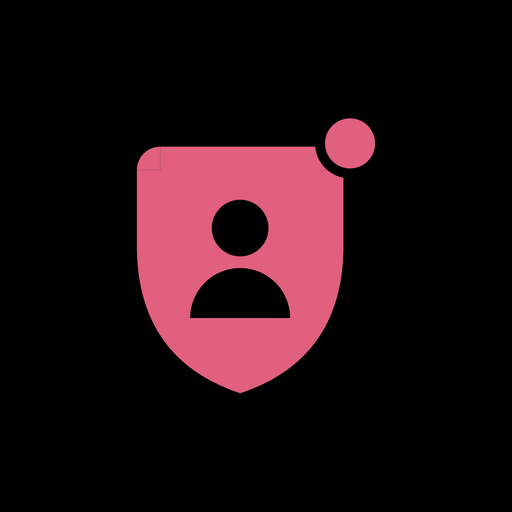
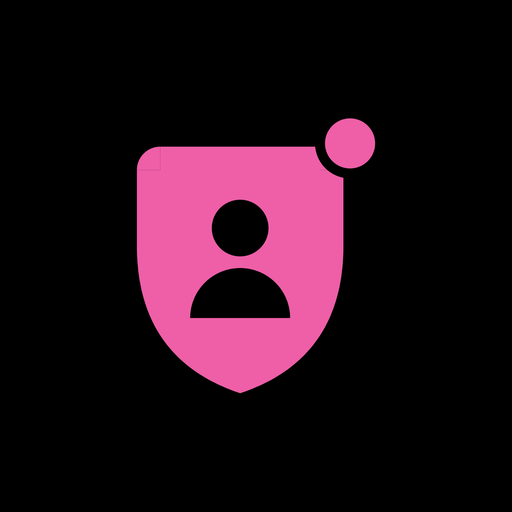
Blockstead: switch the site to the new pink (#EE5FA7)
George: the first accent read as orange. Matches Holm's brand-colors.json.

Claude-Session: https://claude.ai/code/session_01Pruc2iZH3mus23DHuMfs4c

Changed region(s): [[0.25, 0.2188, 0.75, 0.7812]]

diff --git a/demo/blockstead/index.html b/demo/blockstead/index.html
@@ -10,7 +10,7 @@
 <link rel="preconnect" href="https://fonts.googleapis.com">
 <link href="https://fonts.googleapis.com/css2?family=Martian+Mono:wght@400;500;700&display=swap" rel="stylesheet">
 <style>
-  :root { --accent: #E0607E; }
+  :root { --accent: #EE5FA7; }
   *, *::before, *::after { margin: 0; padding: 0; box-sizing: border-box; }
   body {
     background: #0A0A0A;
@@ -29,7 +29,7 @@
   .head h1 { font-size: 20px; color: var(--accent); }
   .tagline { color: #9CA3AF; font-size: 13px; line-height: 1.6; margin-bottom: 20px; }
   .disclaimer {
-    background: rgba(224,96,126,0.08); border: 1px solid rgba(224,96,126,0.3);
+    background: rgba(238,95,167,0.08); border: 1px solid rgba(238,95,167,0.3);
     border-radius: 10px; padding: 12px 14px; font-size: 12px; color: #9CA3AF;
     margin-bottom: 32px; line-height: 1.6;
   }

diff --git a/index.html b/index.html
@@ -944,7 +944,7 @@ const APPS = [
     desc: 'One list of your people. Every chat app on your phone only buzzes for them; everyone else waits quietly until you look. Android only.',
     status: 'In Development',
     img: 'images/blockstead.png',
-    color: '#E0607E',
+    color: '#EE5FA7',
     demoUrl: '/demo/blockstead/',
     orbit: { rx: 210, ry: 205, speed: 0.00021, phase: 2.9, wsx: 0.00009, wsy: 0.00007, wp: 5.6 },
   },
